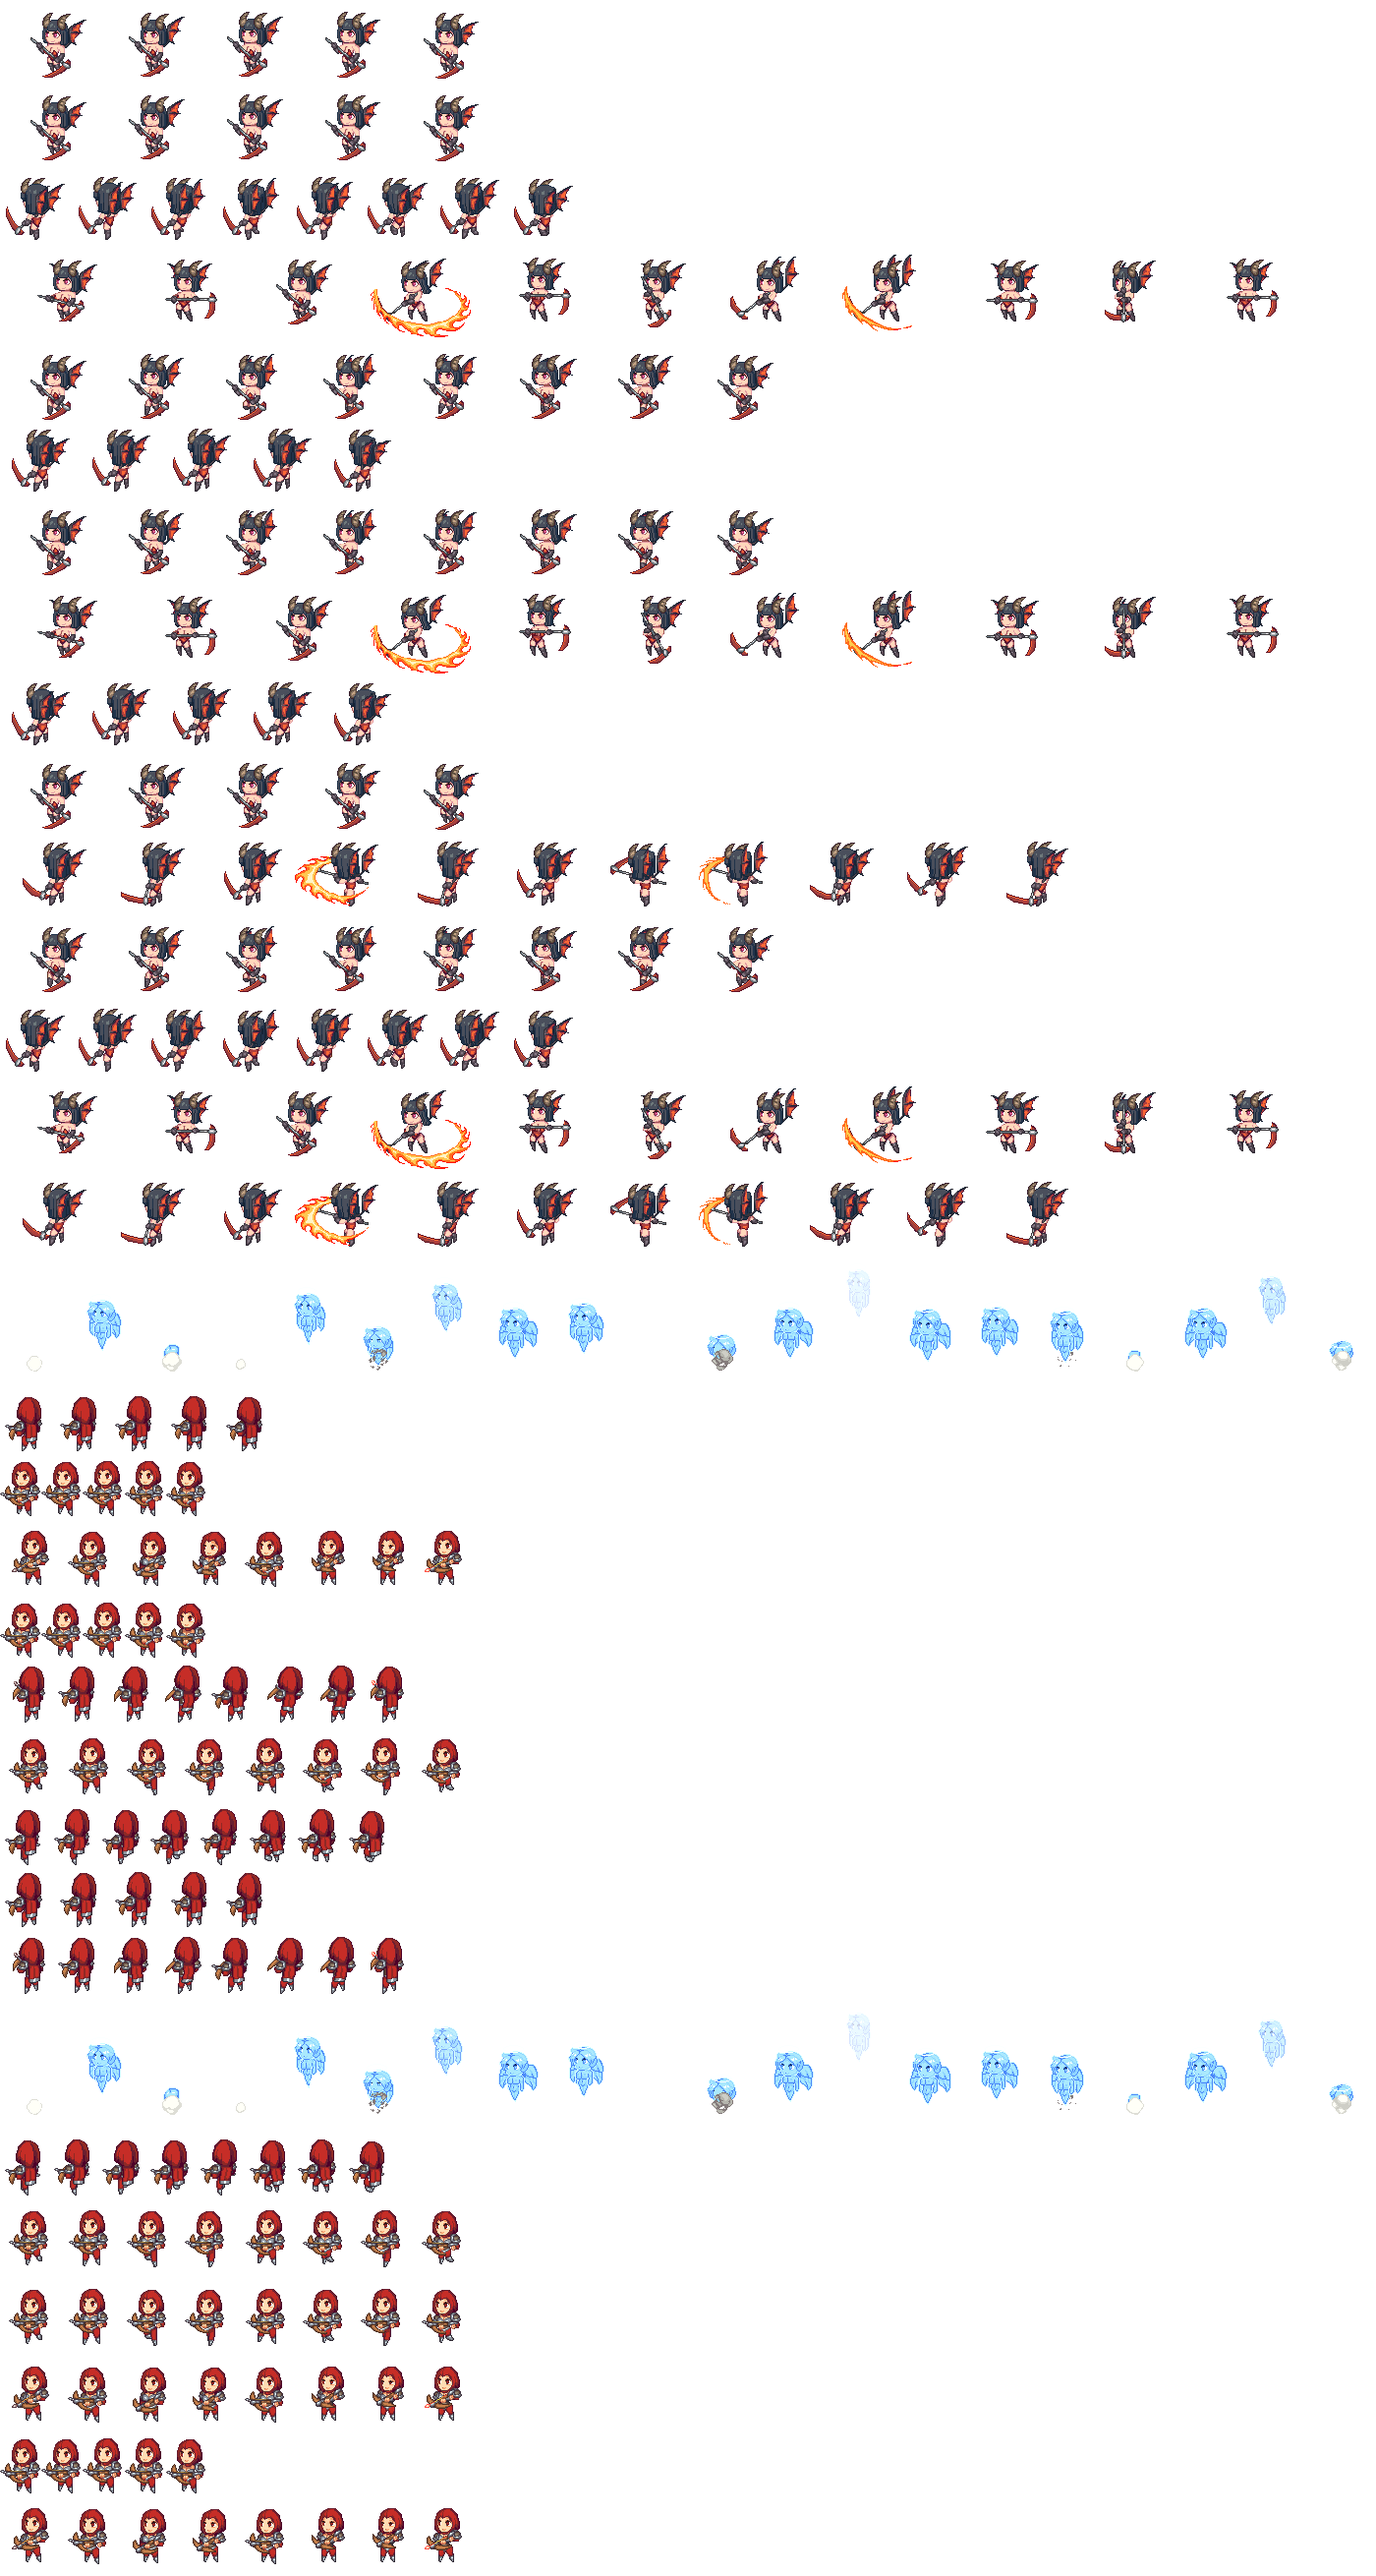
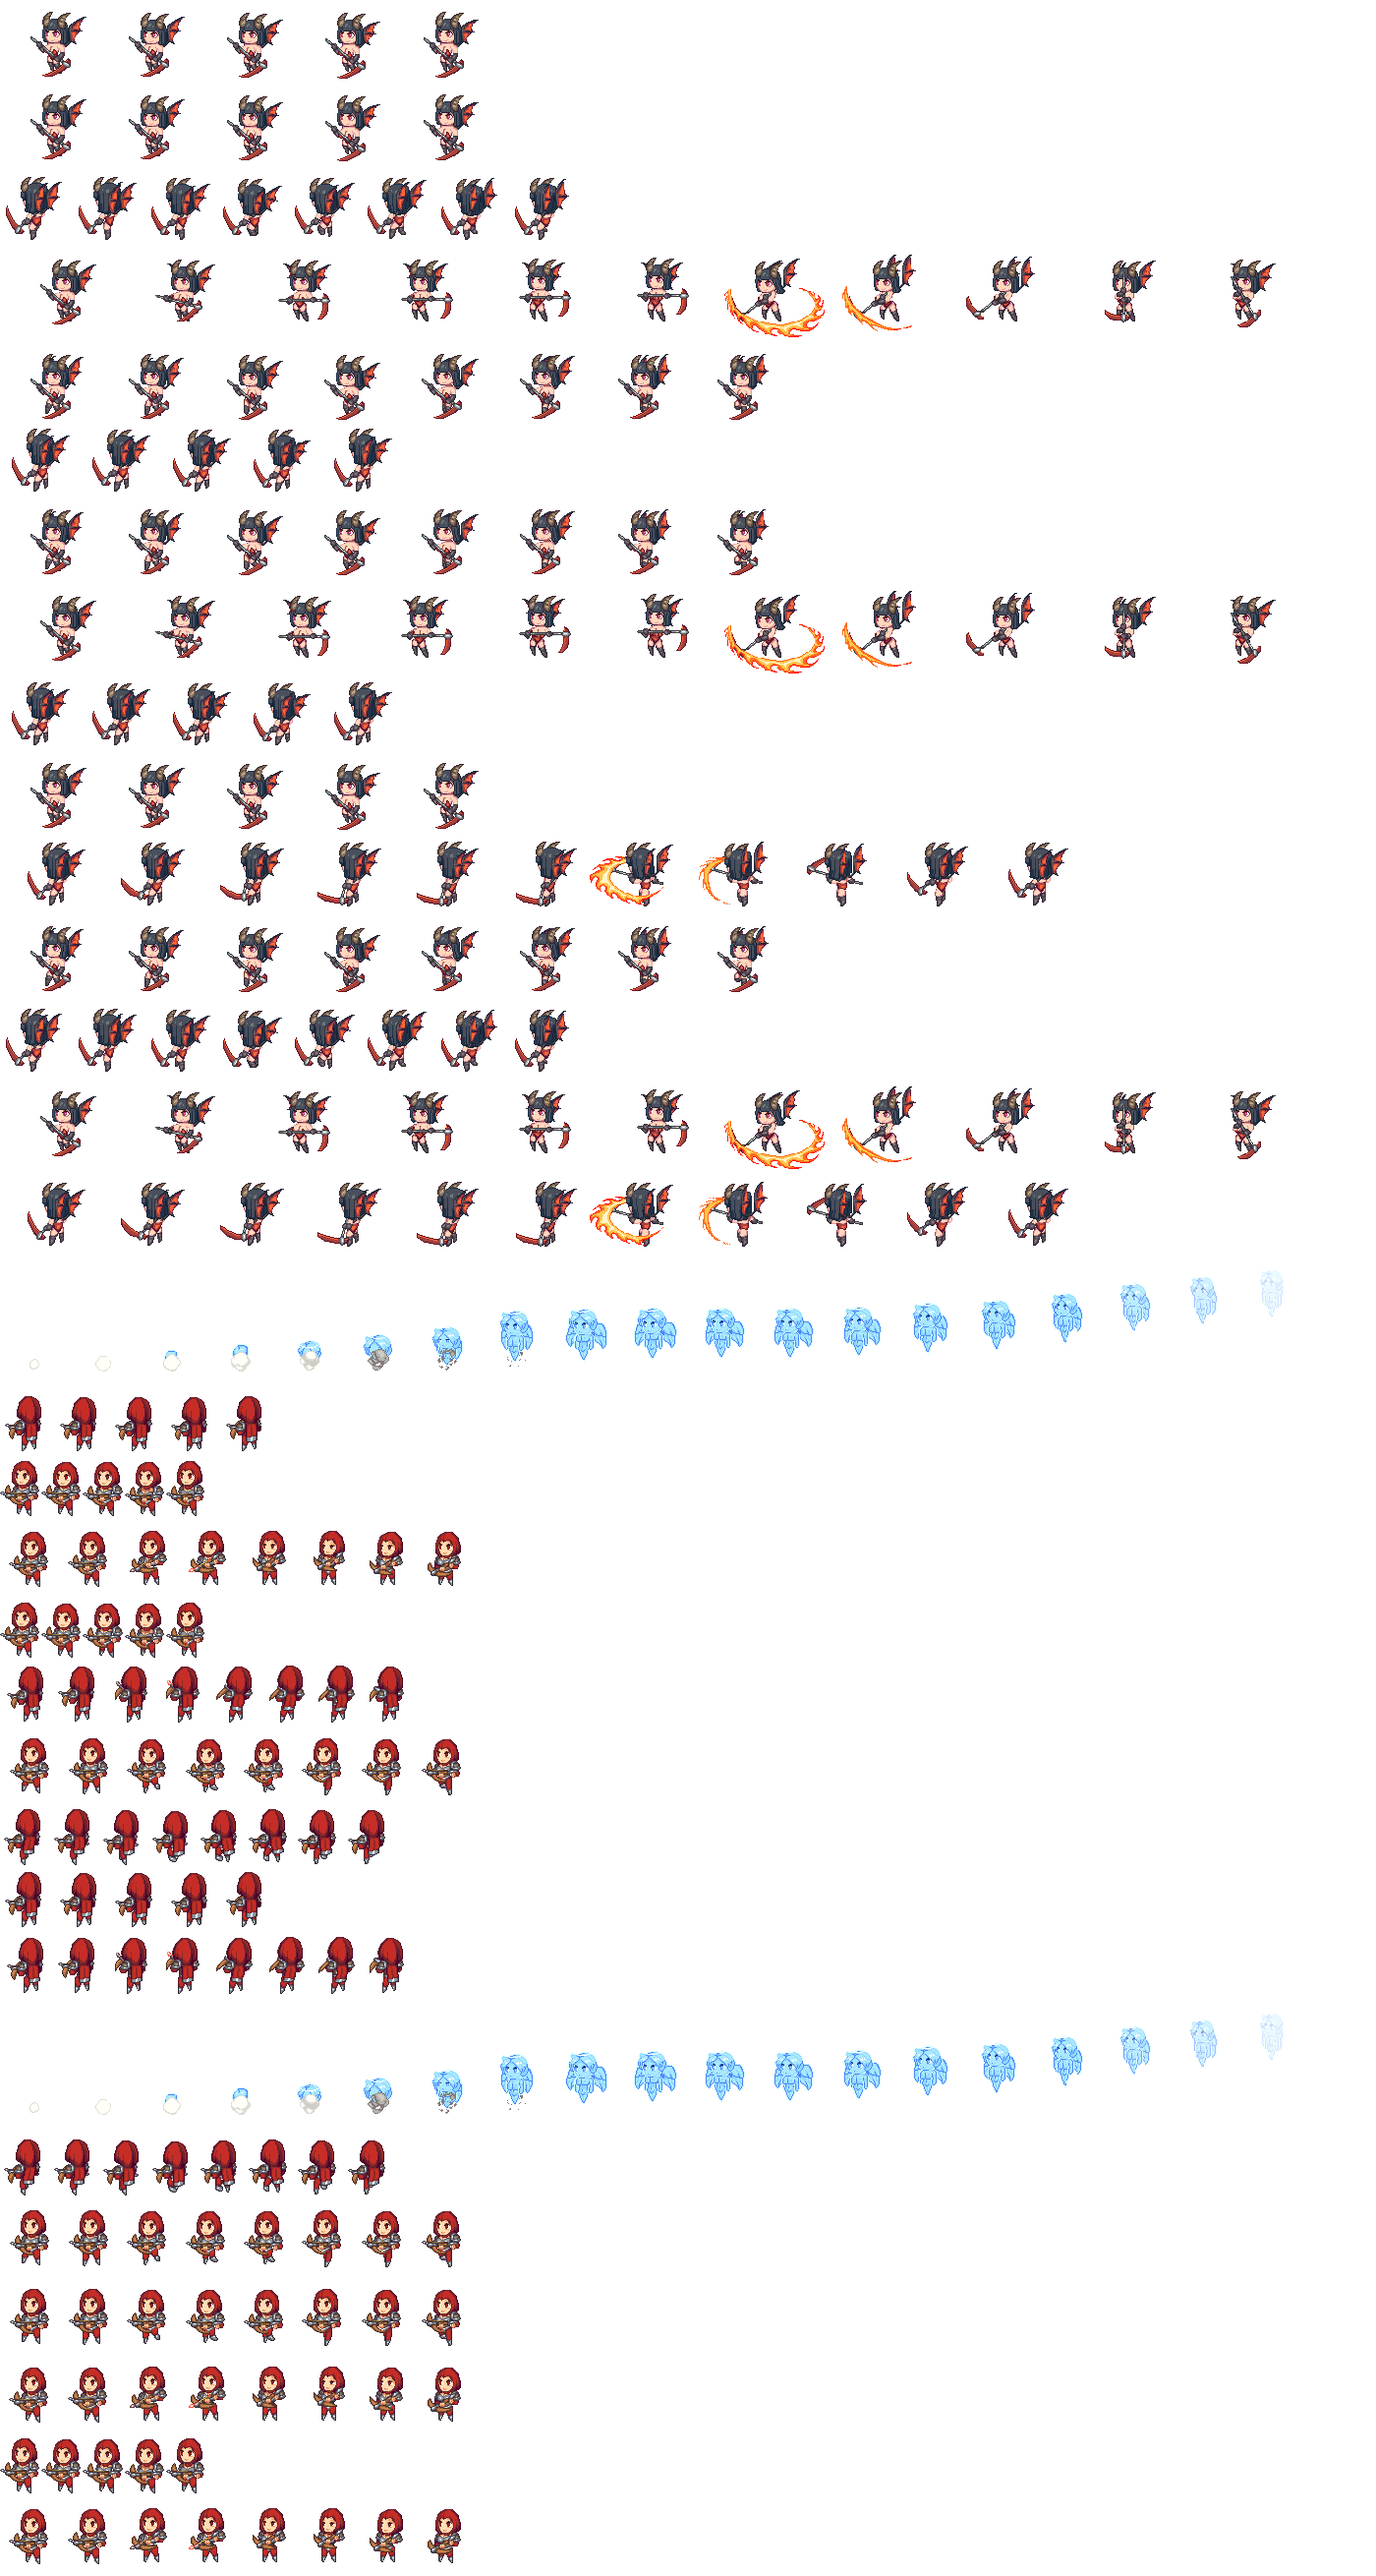
frames generator : bug corrected

diff --git a/scripts/utils.py b/scripts/utils.py
@@ -29,6 +29,7 @@ def parse(dirs:list):
     return out
 
 def h_concat(images_path):
+    images_path.sort()
     images = [Image.open(x) for x in images_path]
     widths, heights = zip(*(i.size for i in images))
 
